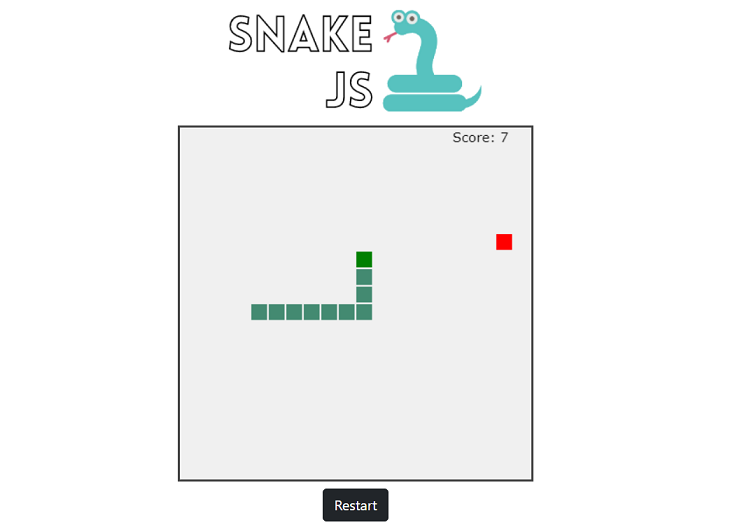
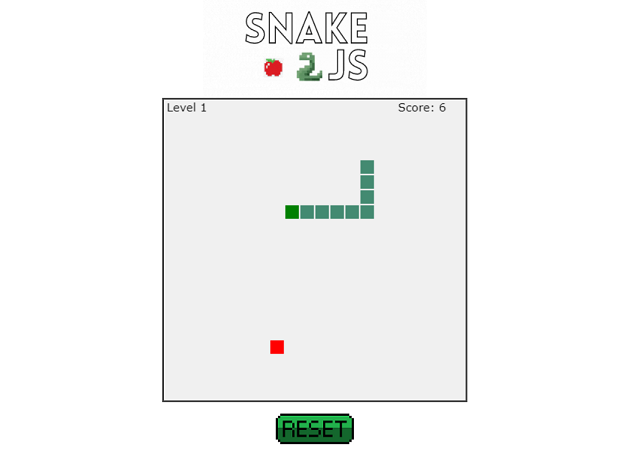
Final release

Changed region(s): [[0.2184, 0.0, 0.7488, 0.983], [0.312, 0.3277, 0.5928, 0.6255], [0.4056, 0.7149, 0.468, 0.7745]]

diff --git a/app.js b/app.js
@@ -9,7 +9,7 @@ class PlayerBody {
     }
 }
 
-let speed = 7;
+let speed = 6;
 let tileCount = 20;
 let tileSize = canvas.width / tileCount - 2;
 
@@ -26,9 +26,12 @@ let xVelocity = 0;
 let yVelocity = 0;
 
 let score = 0;
+let level = 1;
 
 const glupSound = new Audio('./resources/music/glup.mp3');
 const overSound = new Audio('./resources/music/over.mp3');
+let bgn = new Image();
+bgn.src = './resources/img/bgn.png';
 
 // Events
 document.body.addEventListener('keydown', keyDown);
@@ -45,19 +48,36 @@ function drawGame() {
     drawFruit();
     drawPlayer();
     drawScore();
+    drawLevel();
 
     // Levels
-    if(score >= 5) {
+    if(score > 10) {
+        speed = 7;
+        level = 2;
+    }
+    if(score > 20) {
         speed = 8;
+        level = 3;
     }
-    else if(score >= 10) {
+    if(score > 30) {
         speed = 9;
+        level = 4;
     }
-    else if(score >= 15) {
+    if(score > 40) {
         speed = 10;
+        level = 5;
     }
-    else if(score >= 20) {
+    if(score > 50) {
         speed = 11;
+        level = 6;
+    }
+    if(score > 60) {
+        speed = 12;
+        level = 7;
+    }
+    if(score > 70) {
+        speed = 13;
+        level = 'endless';
     }
 
     setTimeout(drawGame, 1000/speed);
@@ -115,6 +135,13 @@ function drawScore() {
     ctx.fillStyle = 'black';
     ctx.font = '15px Verdana';
     ctx.fillText('Score: ' + score, canvas.width-90, 15);
+}
+
+// Draw level
+function drawLevel() {
+    ctx.fillStyle = 'black';
+    ctx.font = '15px Verdana';
+    ctx.fillText('Level ' + level, canvas.width-398, 15);
 }
 
 // Draw player

diff --git a/index.html b/index.html
@@ -14,11 +14,11 @@
 </head>
 <body>
     <!-- Banner game (logotype) -->
-    <img src="./resources/img/banner.png" alt="SnakeJS">
+    <img src="./resources/img/banner.gif" alt="SnakeJS">
     <!-- Board game -->
     <canvas id="board" width="400" height="400"></canvas>
     <!-- Button restart -->
-    <button class="btn btn-dark mt-2" onClick="window.location.reload();">Restart</button>
+    <button class="btn mt-2"><img src="./resources/img/button.png" alt="reset" onClick="window.location.reload();"></button>
     <!-- Scripts -->
     <script src="app.js"></script>
 </body>
